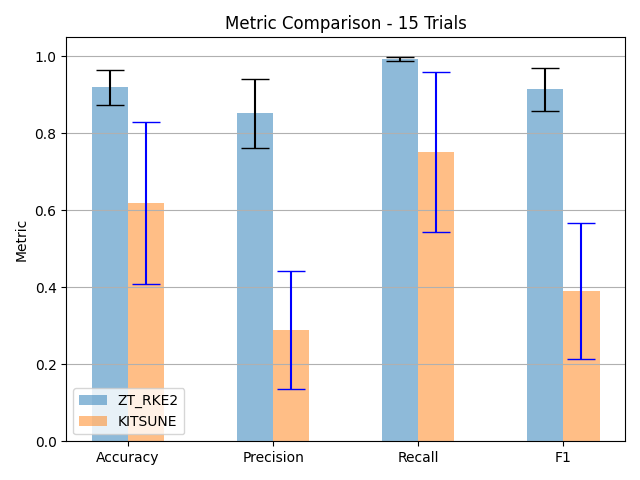
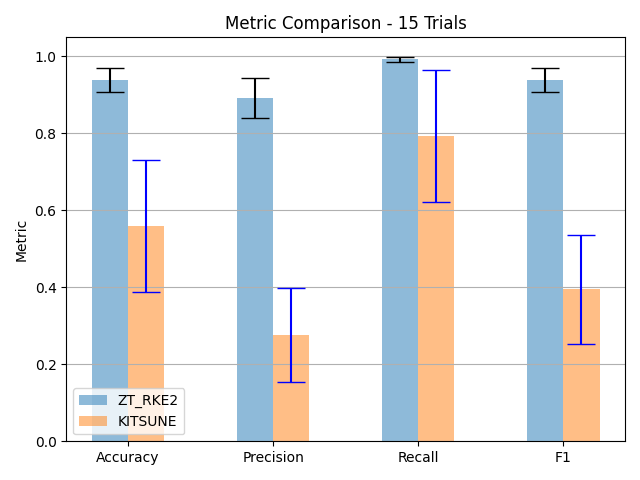
Updated graphs

diff --git a/performance/aggregate_simple.py b/performance/aggregate_simple.py
@@ -10,13 +10,26 @@ kitsune = [list() for x in range(0,4)]
 ztrke2 = [list() for x in range(0,4)]
 cur_ztrke2 = True
 i = 0
-kit_count = 0
-zt_count = 0
+kit_count = 1
+zt_count = 1
+relevant_file = True
 with open(args.file,'r') as f: 
     for line in f: 
         line = line.strip()
-        print("COUNTS",zt_count,kit_count)
+        # if line.startswith('Trial_Out/0-'):
+        # # if line.startswith('Trial_Out/0-') or line.startswith('Trial_Out/01'):
+        #     relevant_file = True
+        #     pass
+        # elif line.startswith('Trial_Out/0'):
+        #     relevant_file = False
+        #     continue
+        # elif line.startswith('Trial_Out'): 
+        #     relevant_file = True
+        # print("COUNTS",zt_count,kit_count)
         if line.strip().startswith("ACC"):
+            if not relevant_file: 
+                continue
+            print("COUNT:",zt_count)
             if i > 6: 
                 break
             det = line.split(',')
@@ -106,16 +119,17 @@ with open(args.file,'r') as f:
         ecolor='blue',
         capsize=10)
     # ax.bar_label(kt_bar,padding=3)
-    ax.set_ylabel('Metric')
-    ax.legend()
+    ax.set_ylabel('Proportion')
+    ax.legend(loc='upper left',ncols=2)
+    ax.set_ybound(0,1.1)
     ax.set_xticks(x_pos + 0.375)
     ax.set_xticklabels(labels)
-    ax.set_title('Metric Comparison - 15 Trials')
+    ax.set_title('Metric Comparison - 14 Trials')
     ax.yaxis.grid(True)
 
 
     # Save the figure and show
     plt.tight_layout()
-    plt.savefig('bar_plot_with_error_bars.png')
+    plt.savefig('aggregated_14_trials.png')
     plt.show()
 
